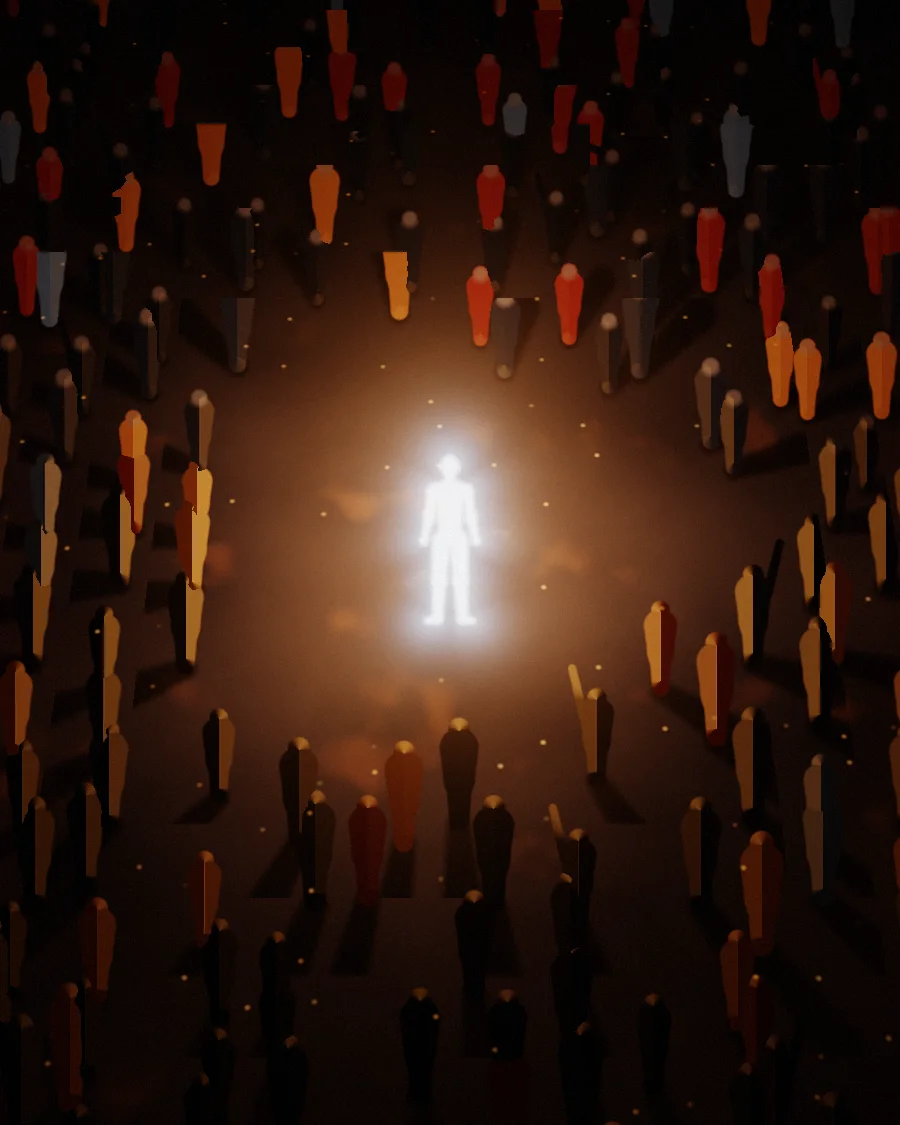
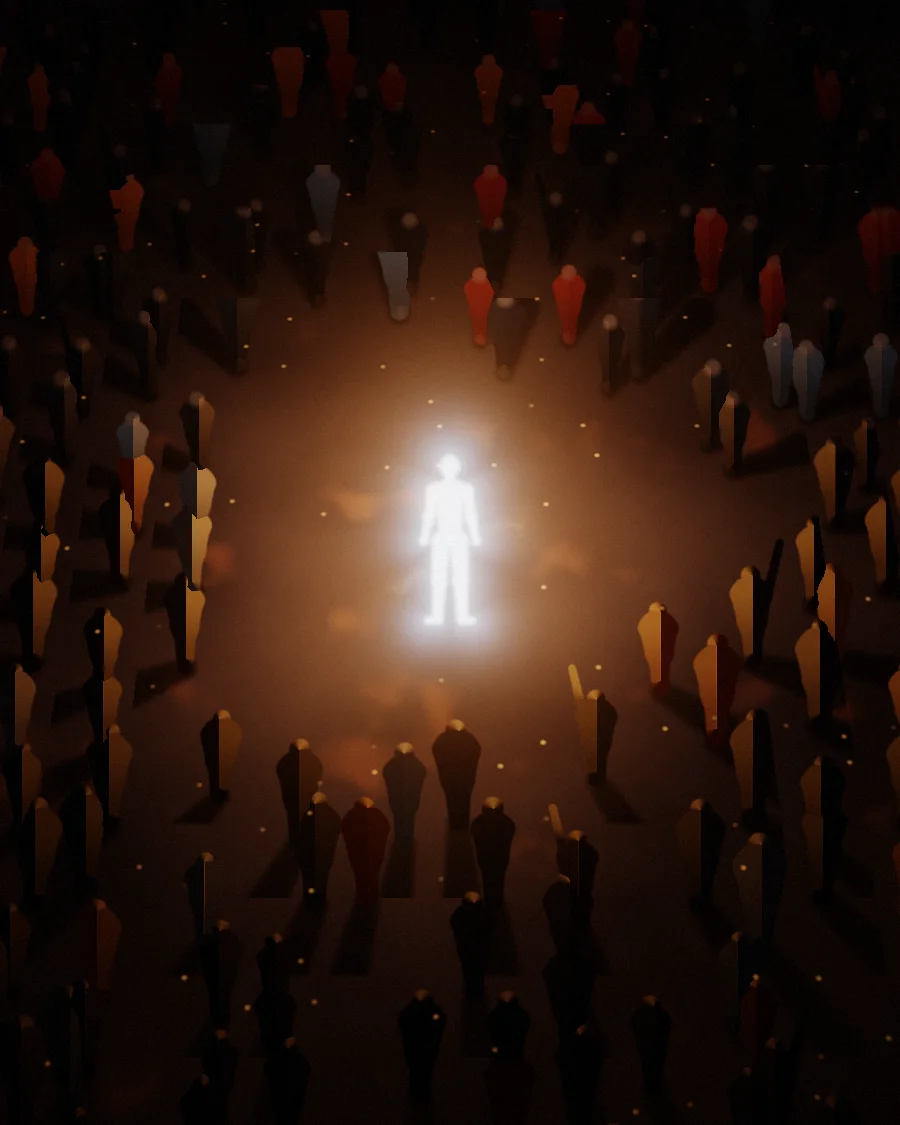
Polish crowd film, add README and refresh media
- Crowd: broader shoulders, per-person lean and width, light falling
  off down the body, calmer jacket colours and edge glow; bigger,
  hotter burning figure.
- README: running, deploying, personalising content.js, timing,
  architecture, optional scrubbed footage with ffmpeg settings and
  matching AI video prompts, re-rendering media.
- Re-rendered stills from the updated shaders; social preview without
  the cursor.

Claude-Session: https://claude.ai/code/session_01P1Tk2mZGYu1PUw1vNPuokW

diff --git a/README.md b/README.md
@@ -1,1 +1,135 @@
-- This is readme file
+# Apurba Sardar — cinematic portfolio
+
+![Preview](public/media/og.jpg)
+
+A scroll-driven, cinematic portfolio told as one continuous fall:
+
+**The Leap → Impact → The Noise → Rise → Index of work → Selected work → About → Stack → Services → The Portal → Contact**
+
+Every background is a real-time WebGL2 "film" rendered in the browser (no stock footage, no heavy video files),
+scrubbed by scroll and layered with motion typography in GSAP.
+
+| Chapter | What happens |
+| --- | --- |
+| **The Leap** | A figure tumbles down a shaft of golden light. 3D words (`DEPLOY`, `SHIP IT`, `NO STAGING`…) and code snippets rush past, captions blend in `difference` mode, and an altitude counter falls from 12 000 m to 0. The light "gets louder" into a god-ray burst and whites out. |
+| **Impact** | `IMPACT` slams into the frame and shakes it. |
+| **The Noise** | Top-down crowd around a burning figure; a hollow `NOISE` rises through the frame with the usual noise (*"it works on my machine"*, *"just add AI"*…). A shockwave clears it all. |
+| **Rise** | The letters of `RISE` fly in from every direction and invert the film beneath them. A figure of cold light stands up. |
+| **Index of work** | The film shrinks into a card while project tiles fly towards the camera through a 3D tunnel. |
+| **Selected work** | Four cases, each with a giant marquee title, a spinning "record" (live WebGL) wrapped in rotating ring text, details and a CTA. Titles collapse into bars as they leave. |
+| **About / Stack / Services** | Word-by-word statement reveal, an outline marquee of the stack, and a services list that floods white on hover with a preview card trailing the cursor. |
+| **The Portal** | Storm clouds part above mountains, a slit of light opens into a door, lightning crawls out and a hooded developer walks through it towards the camera — then the closing headline. |
+| **Contact** | Availability, a huge gold email, a live clock and a way back to the top. |
+
+Also included: smooth scrolling (Lenis), a `difference`-blend custom cursor, a full-screen chapter menu with previews,
+a generative WebAudio soundtrack (drone, falling wind that follows your scroll speed, crowd murmur, impact boom,
+portal choir — no audio files), a loader, mobile layout and `prefers-reduced-motion` support.
+
+## Run it
+
+```bash
+npm install
+npm run dev       # http://localhost:5173
+npm run build     # static site in dist/
+npm run preview   # serve the production build
+```
+
+`dist/` is plain static files with relative paths, so it deploys anywhere:
+
+- **Vercel / Netlify**: import the repo, build command `npm run build`, output directory `dist`.
+- **GitHub Pages**: build, then publish the contents of `dist/` (for example with the `peaceiris/actions-gh-pages` action
+  or by pushing `dist/` to a `gh-pages` branch). Paths are relative, so a `/<repo>/` sub-path works too.
+
+## Make it yours
+
+Everything you read on the site lives in **`src/content.js`**:
+
+- `brand` — name, short wordmark, role, intro line, monogram.
+- `leap.words`, `noise.phrases`, `rise.side` — the words that fly past in each chapter.
+- `work.projects` — name, colour, ring text, description, stack and which film plays in the record
+  (`leap`, `ember`, `crowd`, `portal`).
+- `about`, `stack`, `services` — statement, marquee rows, services and their preview images.
+- `portal.cta` — the closing headline (`\n` = line break).
+- `contact` — **replace the placeholder email `hello@apurba.dev`**, your socials, your city and IANA timezone
+  for the live clock (e.g. `city: 'Kolkata'`, `timezone: 'Asia/Kolkata'`, `timezoneLabel: 'IST'`).
+
+Images used by the menu, the index tunnel and the services previews are in `public/media/`.
+Swap in your own screenshots (any aspect ratio, they are cropped with `object-fit: cover`) or re-render
+them from the shaders — see [Re-rendering the media](#re-rendering-the-media).
+
+### Timing
+
+Each cinematic chapter is a scroll "spacer" whose length is set by `vh` in its scene file
+(`src/scenes/*.js`, e.g. `vh: 640` = 6.4 screens of scroll for the leap). Inside, every effect is keyed to the
+chapter progress `p` (0 → 1), so retiming is a matter of changing those ranges.
+
+## How it works
+
+```
+src/
+  content.js            all copy
+  app.js                boot, loader, Lenis + GSAP ticker, render loop, navigation
+  core/stage.js         fixed scene layers that behave like position: sticky
+  core/hud.js menu.js cursor.js sound.js video.js
+  gl/renderer.js        tiny WebGL2 renderer built around "views" (full-screen, rect or circle)
+  gl/shaders/           common.glsl (noise, SDF human), leap.glsl, crowd.glsl, portal.glsl
+  scenes/               leap, impact, noise, rise, gallery, portal  (scroll-driven chapters)
+  sections/             work, about, clients (stack), services, contact (normal flow)
+tools/                  shader lab, tile designs and the media renderer (dev only)
+```
+
+- **Why fixed layers instead of pinning?** Sticky or pinned containers create isolated stacking contexts, which
+  breaks `mix-blend-mode: difference` against the WebGL canvas (the blue-over-gold captions, the inverted `RISE`).
+  The stage keeps every scene layer at the root of the page and moves it exactly like `position: sticky` would.
+- **One canvas, many views.** The full-screen films, the shrinking card in the index and the four spinning records
+  in Selected work are all drawn by the same WebGL context using viewport + scissor rectangles that follow DOM
+  elements.
+- **Adaptive quality.** Resolution drops automatically on slow GPUs and recovers when frames are fast.
+
+## Real footage instead of the procedural films (optional)
+
+Each film can be replaced by a video that is scrubbed by scroll. Put the file in `public/videos/` and set it in
+`content.videos`:
+
+```js
+videos: { leap: 'videos/leap.mp4', noise: 'videos/noise.mp4', portal: 'videos/portal.mp4' }
+```
+
+Encode with a keyframe on every frame so scrubbing is smooth:
+
+```bash
+ffmpeg -i input.mp4 -an -vf scale=1920:-2 -c:v libx264 -crf 22 -g 1 -pix_fmt yuv420p public/videos/leap.mp4
+```
+
+Prompts that match the films, for an AI video generator (Veo, Sora, Kling, Runway…):
+
+- **leap** — *"Cinematic slow motion, a lone man in dark clothes falling head-first down an endless vertical
+  shaft of golden light, sparks and light streaks rushing upward past him, glowing gold ribbons spiralling
+  around the beam, dark amber and umber surroundings, anamorphic lens, film grain, 10 seconds, the light
+  intensifies into a blinding white burst at the end."*
+- **noise** — *"Top-down drone shot at night, a dense crowd standing in a circle around a man lying on the ground
+  who is burning like an ember, warm firelight on the faces of the crowd, some people in red jackets, sparks
+  drifting, then a bright shockwave of light pushes the crowd back and the man stands up glowing with cold
+  white-blue light."*
+- **portal** — *"Dark stormy night above jagged mountains, pink-lit cumulus clouds part to reveal a vertical slit of
+  red light that opens into a tall glowing doorway, lightning crawls out of its edges, a young developer in a
+  hoodie walks out of the light towards the camera, slow push-in to a close-up, cinematic, volumetric light."*
+  (Use your own photo as the reference image to star in it.)
+
+## Re-rendering the media
+
+```bash
+npm run dev                                   # keep running
+npm i -D playwright && npx playwright install chromium
+node tools/render-media.mjs                   # writes public/media/*
+```
+
+`tools/lab.html` renders a single frame of any scene with any uniforms, e.g.
+`/tools/lab.html?scene=portal&w=1280&h=720&u={"uOpen":1,"uFigure":1,"uWalk":0.5}` — handy for tuning shaders.
+
+## Credits
+
+Fonts: [Archivo](https://github.com/Omnibus-Type/Archivo), [Instrument Serif](https://github.com/Instrument/instrument-serif)
+and [JetBrains Mono](https://github.com/JetBrains/JetBrainsMono) (SIL Open Font License).
+Libraries: [GSAP](https://gsap.com), [Lenis](https://github.com/darkroomengineering/lenis), [Vite](https://vite.dev).
+Inspired by a cinematic portfolio concept shared on Instagram by @itsgireesh.uiux.
